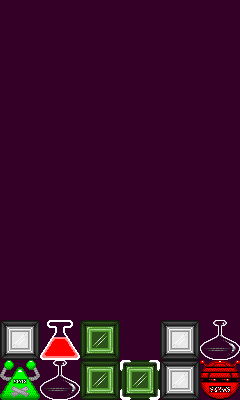
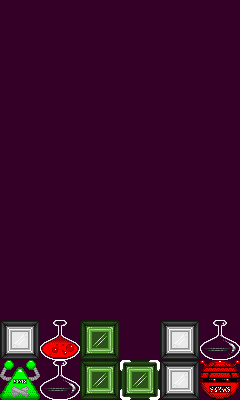
fixed bug for brewing white potions also

Changed region(s): [[0.1458, 0.78, 0.35, 0.9]]

diff --git a/engine.html b/engine.html
@@ -3237,7 +3237,7 @@ $def with (name)
                 console.log("sleepcounter = " + this.sleepcounter)
 
                 // update sprite data
-                this.sprite = new jaws.Sprite({x:this.stack.board.posx(x),y:this.stack.board.posy(y), anchor:"left"})
+                this.sprite = new jaws.Sprite({x:this.stack.board.posx(this.x),y:this.stack.board.posy(this.y), anchor:"left"})
                 var anim = new jaws.Animation({sprite_sheet: "./static/images/POTION_" + COLORS[this.color] + ".gif", frame_size: [40,40], frame_duration: 100})
                 this.sprite.anim_default = anim.slice(0,5)
                 this.sprite.setImage(this.sprite.anim_default.next())
@@ -3274,7 +3274,11 @@ $def with (name)
                   console.log("sleepcounter = " + this.sleepcounter)
 
                   // update sprite data
-                  this.sprite = new jaws.Sprite({x:this.stack.board.posx(above.x),y:this.stack.board.posy(above.y - 1), image:"./static/images/POTION_" + COLORS[above.color] + ".gif",anchor:"left"})
+                  this.sprite = new jaws.Sprite({x:this.stack.board.posx(this.x),y:this.stack.board.posy(this.y), anchor:"left"})
+                  var anim = new jaws.Animation({sprite_sheet: "./static/images/POTION_" + COLORS[this.color] + ".gif", frame_size: [40,40], frame_duration: 100})
+                  this.sprite.anim_default = anim.slice(0,5)
+                  this.sprite.setImage(this.sprite.anim_default.next())
+
                   this.sprite.dx = this.stack.board.posx(above.x)
                   this.sprite.dy = this.stack.board.posy(above.y - 1)
 
